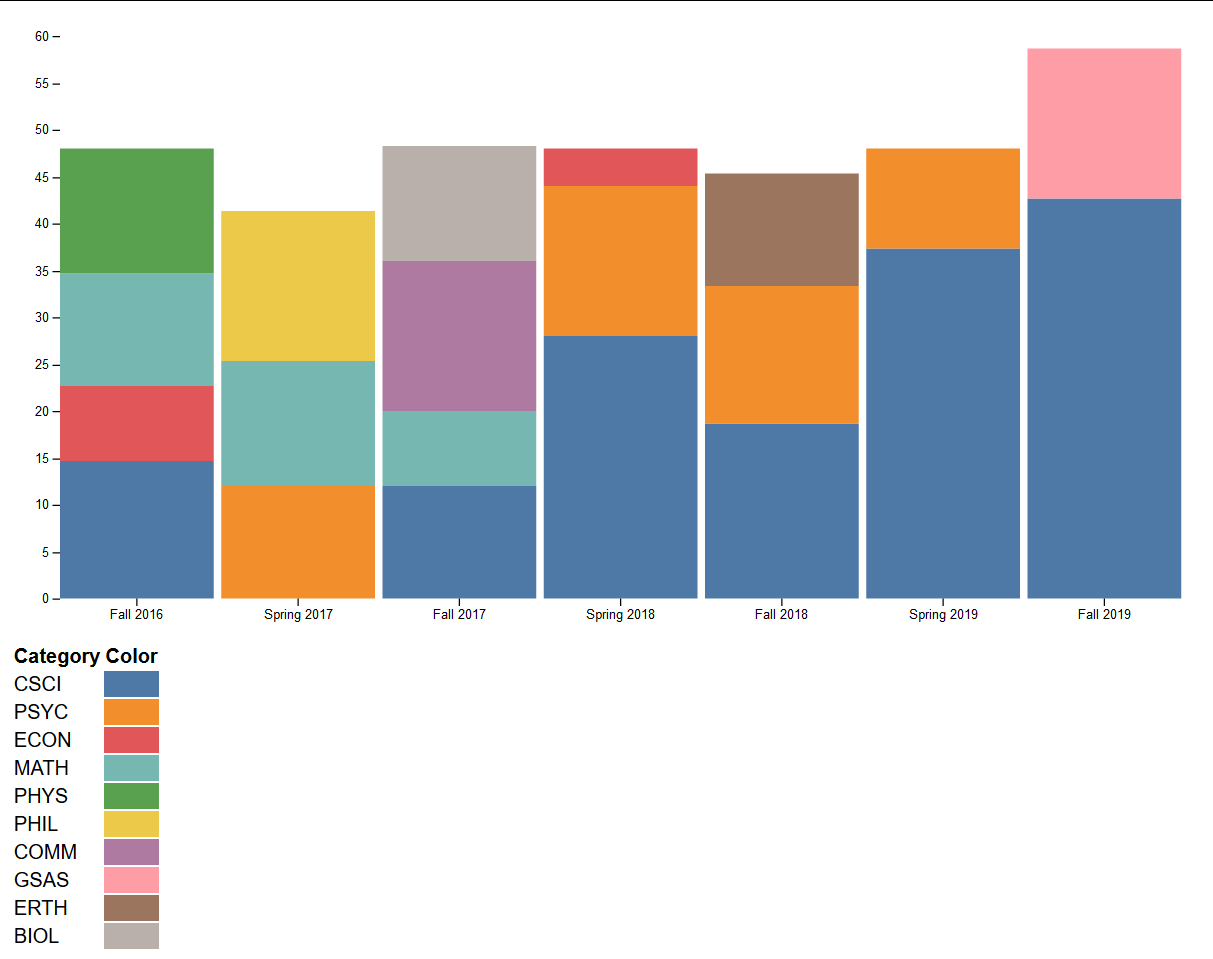
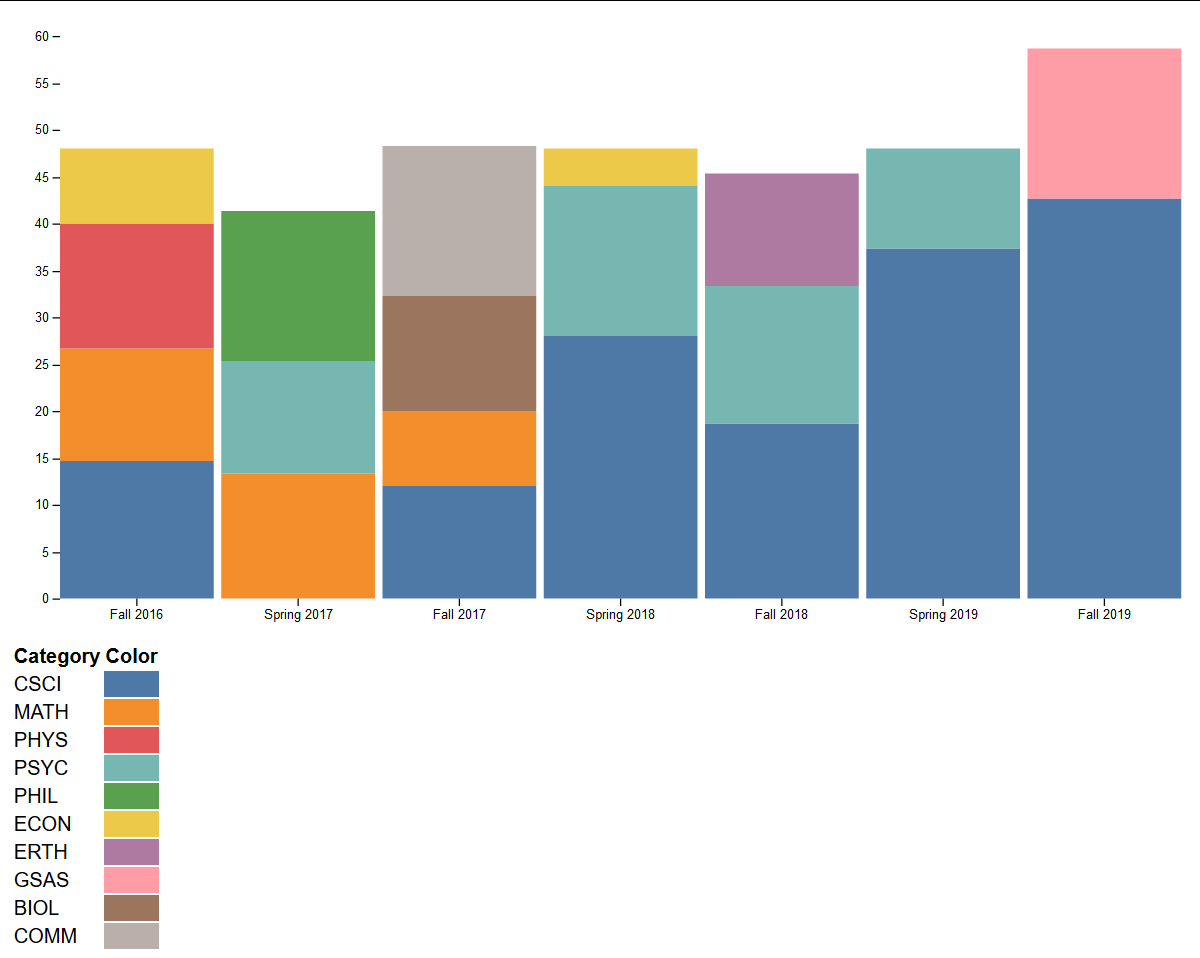
added images

diff --git a/main.html b/main.html
@@ -33,7 +33,7 @@
 <script>
 
 // change this to 'katherine' to try the other data set.
-var currentData = 'katherine';
+var currentData = 'alan';
 
 if (currentData == 'katherine'){
     currentcsv = 'https://raw.githubusercontent.com/alanjoy396/Interactive-Visualization-HW6/master/HW6_Kat_Data_Stack.csv';
